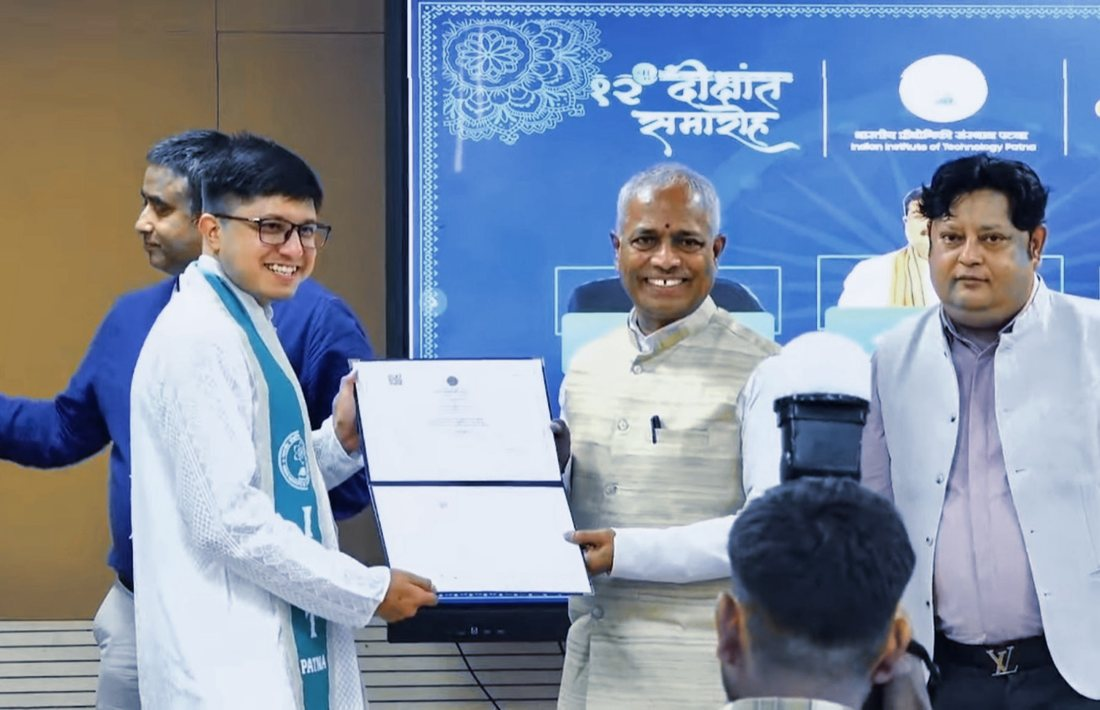
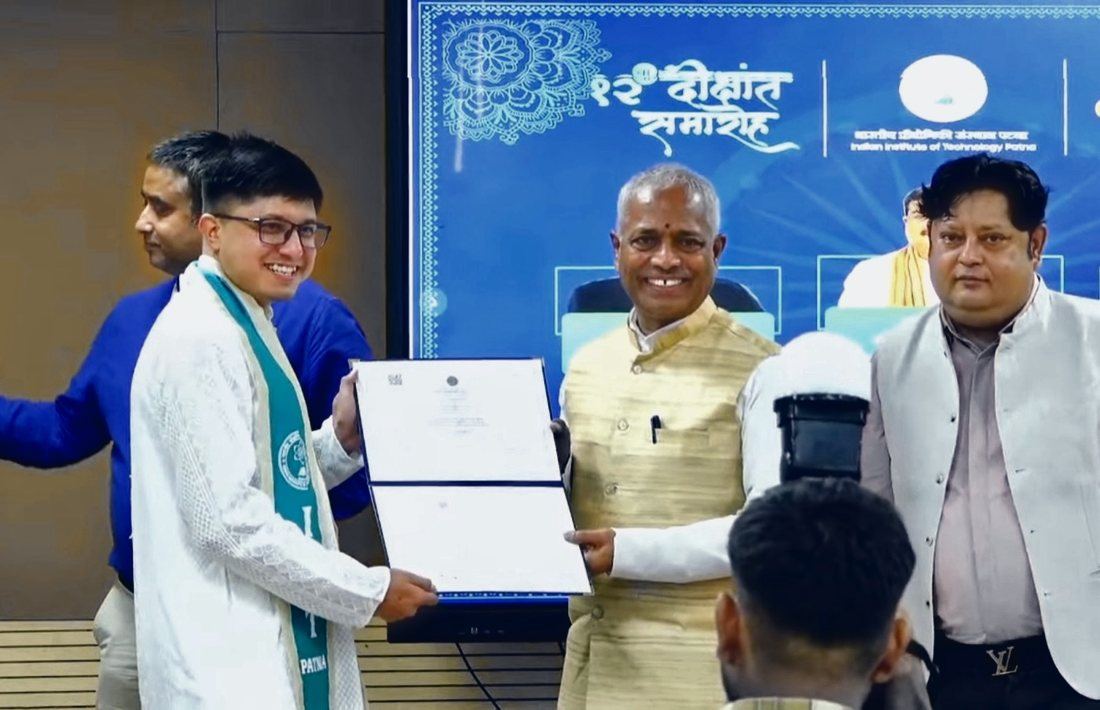
Regrade snapshot photos: natural colour, brighter skin, even tones

diff --git a/index.html b/index.html
@@ -240,19 +240,19 @@
         <h2 class="section-title">A few <em>proud snapshots</em><i class="dot"></i></h2>
         <div class="moments-grid">
           <figure class="moment">
-            <img src="assets/themed/mieca-2025.jpg" alt="Akash receiving the Rising Star Award at MIECA 2024" loading="lazy" />
+            <img src="assets/themed/mieca-2025.jpg?v=3" alt="Akash receiving the Rising Star Award at MIECA 2024" loading="lazy" />
             <figcaption>Rising Star Award · MIECA 2024</figcaption>
           </figure>
           <figure class="moment">
-            <img src="assets/themed/bizexpo-2023.jpg" alt="Akash with the BizExpo 2023 winner's trophy at Commonwealth Bank" loading="lazy" />
+            <img src="assets/themed/bizexpo-2023.jpg?v=3" alt="Akash with the BizExpo 2023 winner's trophy at Commonwealth Bank" loading="lazy" />
             <figcaption>BizExpo 2023 winner · CBA India</figcaption>
           </figure>
           <figure class="moment">
-            <img src="assets/themed/iitp-convocation.jpg" class="crop-left" alt="Akash receiving his MBA degree on stage at the IIT Patna convocation" loading="lazy" />
+            <img src="assets/themed/iitp-convocation.jpg?v=3" class="crop-left" alt="Akash receiving his MBA degree on stage at the IIT Patna convocation" loading="lazy" />
             <figcaption>MBA convocation · IIT Patna</figcaption>
           </figure>
           <figure class="moment">
-            <img src="assets/themed/genai-squad.jpg" alt="Akash and team presenting 'I'm Fin', a GenAI personal finance advisor" loading="lazy" />
+            <img src="assets/themed/genai-squad.jpg?v=3" alt="Akash and team presenting 'I'm Fin', a GenAI personal finance advisor" loading="lazy" />
             <figcaption>"I'm Fin" · CBA AIlympics '24</figcaption>
           </figure>
         </div>
